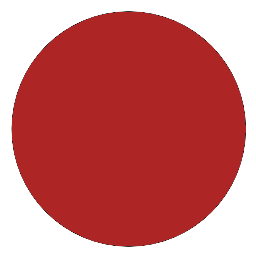
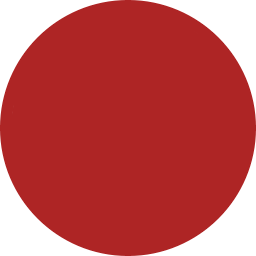
Добавил "планету" и довольно крутой эффект моушен блюра.

Changed region(s): [[0.0, 0.0, 1.0, 1.0]]

diff --git a/libs/rtGE/src/rtGE.cpp b/libs/rtGE/src/rtGE.cpp
@@ -36,6 +36,8 @@ SDL_Renderer* renderer = NULL;
 
 TexturePool texturePool;
 
+SDL_Texture* lastFrame;
+
 bool rtGE::init(
   int screenWidth,
   int screenHeight,
@@ -66,6 +68,14 @@ bool rtGE::init(
     printf("Renderer could not be initialized! SDL_Error: %s\n", SDL_GetError());
     return false;
   }
+  
+  lastFrame = SDL_CreateTexture(renderer, SDL_PIXELFORMAT_RGBA8888, SDL_TEXTUREACCESS_STREAMING, screenWidth, screenHeight);
+  if( lastFrame == NULL ) {
+      printf( "Unable to create blank texture! SDL Error: %s\n", SDL_GetError() );
+  }
+
+  SDL_SetRenderDrawBlendMode(renderer, SDL_BLENDMODE_BLEND);
+  SDL_SetTextureBlendMode(lastFrame, SDL_BLENDMODE_BLEND);
 
   return true;
 }
@@ -73,20 +83,20 @@ bool rtGE::init(
 void rtGE::draw() {
   SDL_SetRenderDrawColor(renderer, 0xFF, 0xFF, 0xFF, 0xFF);
   SDL_RenderClear(renderer);
-}
-
-void rtGE::draw_circle(
-  float pos_x,
-  float pos_y,
-  float D
-) {
-  SDL_Rect rect = { (int)(pos_x - D / 2), (int)(pos_y - D / 2), (int)D, (int)D };
-  SDL_SetRenderDrawColor(renderer, 0xAF, 0x2F, 0x2F, 0xFF);
-  SDL_RenderFillRect(renderer, &rect);
+  SDL_RenderCopy(renderer, lastFrame, NULL, NULL);
 }
 
 void rtGE::update() {
   SDL_RenderPresent(renderer);
+
+  unsigned char* pixels;
+  int pitch;
+
+  SDL_LockTexture(lastFrame, NULL, (void**)&pixels, &pitch);
+  SDL_RenderReadPixels(renderer, NULL, SDL_PIXELFORMAT_RGBA8888, pixels, pitch);
+  SDL_UnlockTexture(lastFrame);
+
+  SDL_SetTextureAlphaMod(lastFrame, 180);
 }
 
 void rtGE::close() {

diff --git a/src/logic/ParticleCollisionSystem.cpp b/src/logic/ParticleCollisionSystem.cpp
@@ -5,32 +5,8 @@
 #include <spatialGrid.h>
 
 // Collision detectinon
-void systems::CollisionSystem(flecs::world *w) {
-  w->system<PositionComponent, VelocityComponent>()
-   .kind(flecs::OnUpdate)
-   .iter([](flecs::iter& iter, PositionComponent* p, VelocityComponent* v) {
-     for (int i : iter) {
-       if (p[i].future.x < PARTICLE_RADIUS) {
-         v[i].vec.x = -v[i].vec.x;
-         p[i].future.x = -p[i].future.x + 2*PARTICLE_RADIUS;
-       }
-       else if (p[i].future.x > SCREEN_WIDTH - PARTICLE_RADIUS) {
-         v[i].vec.x = -v[i].vec.x;
-         p[i].future.x = 2*SCREEN_WIDTH - p[i].future.x - 2*PARTICLE_RADIUS;
-       }
-
-       if (p[i].future.y < PARTICLE_RADIUS) {
-         v[i].vec.y = -v[i].vec.y;
-         p[i].future.y = -p[i].future.y + 2*PARTICLE_RADIUS;
-       }
-       else if (p[i].future.y > SCREEN_HEIGHT - PARTICLE_RADIUS) {
-         v[i].vec.y = -v[i].vec.y;
-         p[i].future.y = 2*SCREEN_HEIGHT - p[i].future.y - 2*PARTICLE_RADIUS;
-       }
-     }
-   });
-
-   w->system<PositionComponent, VelocityComponent>()
+void systems::ParticleCollisionSystem(const flecs::world& w) {
+  w.system<PositionComponent, VelocityComponent>()
    .kind(flecs::OnUpdate)
    .iter([](flecs::iter& iter, PositionComponent* p, VelocityComponent* v) {
      // Collision detection between particles, source: https://www.gamedeveloper.com/programming/pool-hall-lessons-fast-accurate-collision-detection-between-circles-or-spheres

diff --git a/src/logic/PlanetCollisionSystem.cpp b/src/logic/PlanetCollisionSystem.cpp
@@ -1,0 +1,46 @@
+#include "systems.h"
+#include "../view/def.h"
+#include <stdio.h>
+#include <math.h>
+
+void systems::PlanetCollisionSystem(const flecs::world& w) {
+  w.system<PositionComponent, VelocityComponent>()
+  .kind(flecs::OnUpdate)
+  .iter([](flecs::iter& iter, PositionComponent* p, VelocityComponent* v) {
+    for (int i : iter) {
+      Vector2 C = PLANET_POSITION - p[i].current;
+      float d = C.length();
+
+      auto movementVec = p[i].movement_vec;
+
+      if (movementVec.length() < d - PLAN_PART_RADIUS_SUM) continue;
+
+      Vector2 moveVectorNorm = movementVec.normalized();
+
+      float D = moveVectorNorm.dot(C);
+
+      if (D <= 0) continue;
+
+      float F = C.lengthSqrd() - D * D;
+      if (F >= PLAN_PART_RADIUS_SUM_SQRD) continue;
+
+      float T = PLAN_PART_RADIUS_SUM_SQRD - F;
+      if (T < 0) continue;
+
+      float dist = D - sqrt(T);
+      float mag = movementVec.length();
+
+      if (mag < dist) continue;
+
+      float ratio = dist / mag;
+
+      Vector2 posOnImpact = p[i].current + p[i].movement_vec * ratio;
+
+      Vector2 n = (PLANET_POSITION - posOnImpact).normalized();
+      float a1 = v[i].vec.dot(n);
+      float P = (2.0 * a1);
+
+      v[i].vec = v[i].vec - n * P;
+     }
+   });
+}

diff --git a/src/logic/WallCollisionSystem.cpp b/src/logic/WallCollisionSystem.cpp
@@ -1,0 +1,30 @@
+#include "systems.h"
+#include "../view/def.h"
+#include <stdio.h>
+#include <math.h>
+
+void systems::WallCollisionSystem(const flecs::world& w) {
+  w.system<PositionComponent, VelocityComponent>()
+   .kind(flecs::OnUpdate)
+   .iter([](flecs::iter& iter, PositionComponent* p, VelocityComponent* v) {
+     for (int i : iter) {
+       if (p[i].future.x < PARTICLE_RADIUS) {
+         v[i].vec.x = -v[i].vec.x;
+         p[i].future.x = -p[i].future.x + 2*PARTICLE_RADIUS;
+       }
+       else if (p[i].future.x > SCREEN_WIDTH - PARTICLE_RADIUS) {
+         v[i].vec.x = -v[i].vec.x;
+         p[i].future.x = 2*SCREEN_WIDTH - p[i].future.x - 2*PARTICLE_RADIUS;
+       }
+
+       if (p[i].future.y < PARTICLE_RADIUS) {
+         v[i].vec.y = -v[i].vec.y;
+         p[i].future.y = -p[i].future.y + 2*PARTICLE_RADIUS;
+       }
+       else if (p[i].future.y > SCREEN_HEIGHT - PARTICLE_RADIUS) {
+         v[i].vec.y = -v[i].vec.y;
+         p[i].future.y = 2*SCREEN_HEIGHT - p[i].future.y - 2*PARTICLE_RADIUS;
+       }
+     }
+   });
+}

diff --git a/src/data/world.cpp b/src/data/world.cpp
@@ -7,14 +7,18 @@
 flecs::world mWorld;
 
 void world::init() {
-  systems::AttractionSystem(&mWorld);
-  systems::MovementSystem(&mWorld);
-  systems::CollisionSystem(&mWorld);
+  systems::AttractionSystem(mWorld);
+  systems::MovementSystem(mWorld);
 
+  systems::WallCollisionSystem(mWorld);
+
+  systems::PlanetCollisionSystem(mWorld);
+  systems::ParticleCollisionSystem(mWorld);
+  
   mWorld.entity()
     .add<RenderComponent>()
-    .set<PositionComponent>({Vector2 {SCREEN_WIDTH / 2, SCREEN_HEIGHT / 2}})
-    .set<SpriteComponent>({rtGE::get_sprite("circle.png", 300, 300, 150, 150)});
+    .set<PositionComponent>({PLANET_POSITION})
+    .set<SpriteComponent>({rtGE::get_sprite("circle.png", PLANET_SIZE, PLANET_SIZE, PLANET_RADIUS, PLANET_RADIUS)});
 }
 
 void world::create_particle(

diff --git a/src/logic/MovementSystem.cpp b/src/logic/MovementSystem.cpp
@@ -1,8 +1,8 @@
 #include "systems.h"
 #include <spatialGrid.h>
 
-void systems::MovementSystem(flecs::world *w) {
-  w->system<PositionComponent, VelocityComponent>()
+void systems::MovementSystem(const flecs::world& w) {
+  w.system<PositionComponent, VelocityComponent>()
     .kind(flecs::PreUpdate)
     .iter([](flecs::iter& iter, PositionComponent* p, VelocityComponent* v) {
       spatialGrid::reset();
@@ -17,7 +17,7 @@ void systems::MovementSystem(flecs::world *w) {
       }
    });
 
-  w->system<PositionComponent, VelocityComponent>()
+  w.system<PositionComponent, VelocityComponent>()
    .kind(flecs::PostUpdate)
    .iter([](flecs::iter& iter, PositionComponent* p, VelocityComponent* v) {
      for (int i : iter) {

diff --git a/src/view/def.h b/src/view/def.h
@@ -1,8 +1,21 @@
+#pragma once
+
+#include <rtmath.h>
+
 const int SCREEN_WIDTH = 1920;
 const int SCREEN_HEIGHT = 1080;
 
 const int PARTICLE_SIZE = 10;
 const int PARTICLE_RADIUS = PARTICLE_SIZE / 2;
 const int PARTICLE_RADIUS_SQRD = PARTICLE_RADIUS * PARTICLE_RADIUS;
+
+const Vector2 PLANET_POSITION { SCREEN_WIDTH / 2, SCREEN_HEIGHT / 2 };
+
+const int PLANET_SIZE = 300;
+const int PLANET_RADIUS = PLANET_SIZE / 2;
+const int PLANET_RADIUS_SQRD = PLANET_RADIUS * PLANET_RADIUS;
+
+const int PLAN_PART_RADIUS_SUM = PLANET_RADIUS + PARTICLE_RADIUS;
+const int PLAN_PART_RADIUS_SUM_SQRD = PLAN_PART_RADIUS_SUM * PLAN_PART_RADIUS_SUM;
 
 const int PARTICLE_COLLISION_AREA_SQRD = PARTICLE_RADIUS_SQRD / 2;

diff --git a/src/logic/systems.h b/src/logic/systems.h
@@ -5,7 +5,12 @@
 #include "../data/components/SpriteComponent.h"
 
 namespace systems {
-  void MovementSystem(flecs::world *w);
-  void CollisionSystem(flecs::world *w);
-  void AttractionSystem(flecs::world *w);
+  void MovementSystem(const flecs::world& w);
+  
+  void ParticleCollisionSystem(const flecs::world& w);
+  void WallCollisionSystem(const flecs::world& w);
+  
+  void PlanetCollisionSystem(const flecs::world& w);
+
+  void AttractionSystem(const flecs::world& w);
 }

diff --git a/src/logic/AttractionSystem.cpp b/src/logic/AttractionSystem.cpp
@@ -3,7 +3,7 @@
 const Vector2 gravity = Vector2 {0, 9.8};
 const float ELECTRIC_ATTRACTION = 10000.0;
 
-void systems::AttractionSystem(flecs::world *w) {
+void systems::AttractionSystem(const flecs::world& w) {
   // w->system<Position, Velocity>()
   //   .kind(flecs::PreUpdate)
   //   .iter([](flecs::iter& iter, Position* p, Velocity* v) {

diff --git a/libs/rtGE/include/rtGE.h b/libs/rtGE/include/rtGE.h
@@ -29,12 +29,6 @@ namespace rtGE {
 
   void close();
 
-  void draw_circle(
-    float pos_x,
-    float pos_y,
-    float D
-  );
-
   void draw_sprite(const Sprite* sprite, float x, float y);
 
   Sprite* get_sprite(std::string name, float w, float h, float origin_x = 0, float origin_y = 0);

diff --git a/src/main.cpp b/src/main.cpp
@@ -21,7 +21,7 @@ int main(int argc, char* args[]) {
     return EXIT_FAILURE;
   }
 
-  game::init_board(100, 50);
+  game::init_board(100, 200);
 
   Uint32 lastRenderUpdateTimeStamp = SDL_GetTicks();
   Uint32 lastPhysicsUpdateTimeStamp = SDL_GetTicks();
